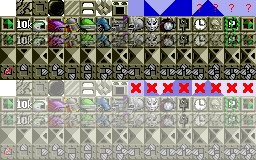
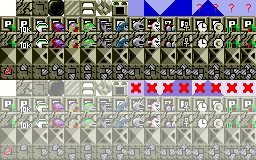
updated block graphics (thanks ZTarget)

Changed region(s): [[0.0, 0.0938, 1.0, 0.3125], [0.0, 0.5938, 1.0, 0.8125]]

diff --git a/README.md b/README.md
@@ -2,6 +2,8 @@ This is an extension for [Tiled](https://www.mapeditor.org/)
 to support level editing in Kid Chameleon using its
 [disassembly](https://github.com/sonicretro/kid-chameleon-disasm).
 
+Block graphics courtesy of ZTarget.
+
 # Setup
 
 Install the latest snapshot or version 1.4 or later of
